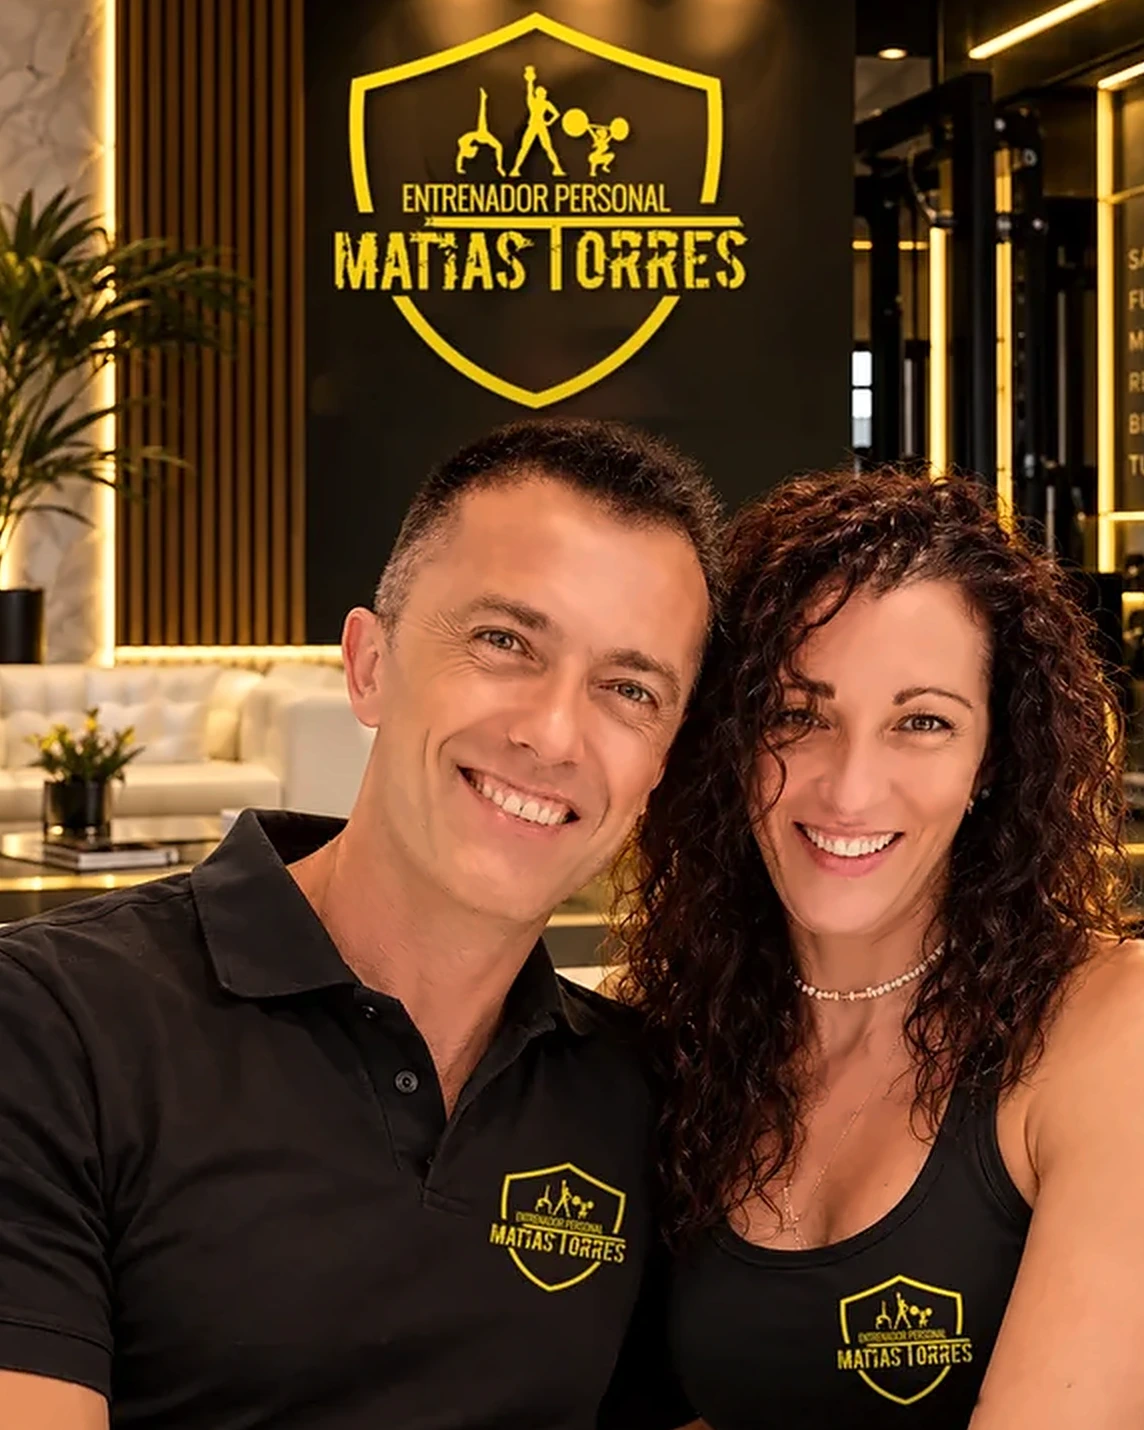
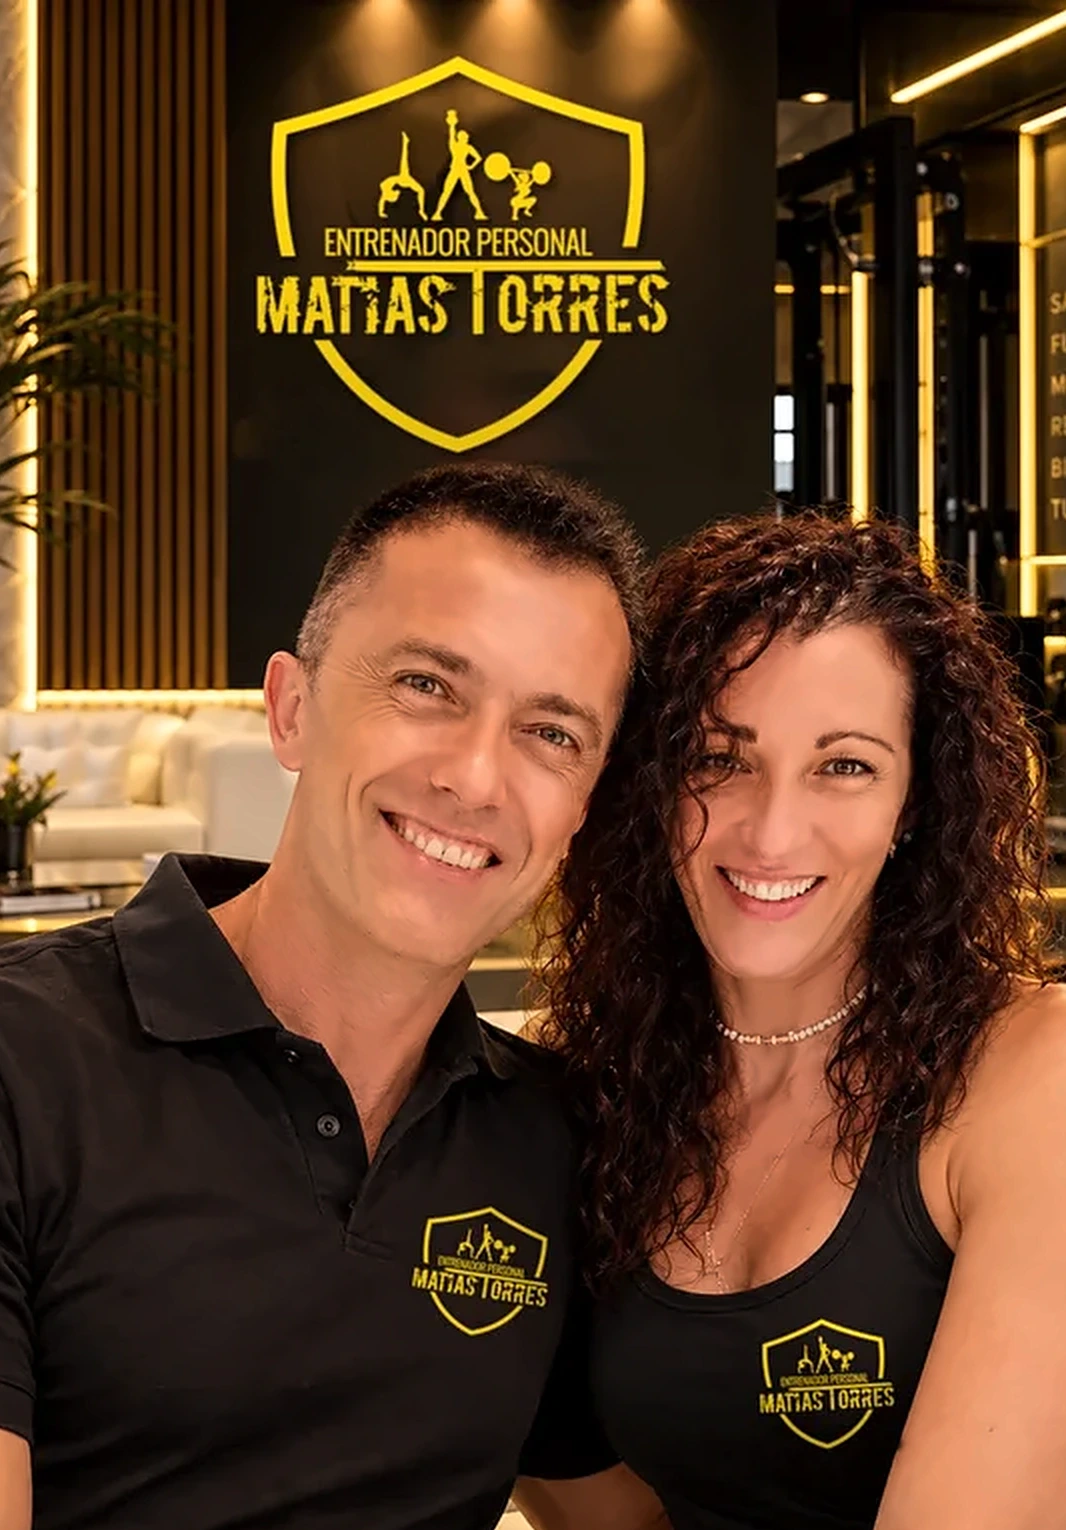
Sobre mí: foto más abierta, con los focos y la maceta cortada por la mitad
Claude-Session: https://claude.ai/code/session_01NkzjF2BzZSqjuTvLD3VfVv

diff --git a/index.html b/index.html
@@ -824,7 +824,7 @@
 
   <section class="dark-sec meet" id="matias"><div class="wrap">
     <figure class="meet-ph">
-      <img src="fotos/matias-silvia.webp?v=3" width="1144" height="1430" style="height:auto;object-position:50% 50%" alt="Matías Torres y Silvia, del equipo del centro, sonriendo en la sala con el polo y la camiseta del escudo" loading="lazy">
+      <img src="fotos/matias-silvia.webp?v=4" width="1066" height="1530" style="height:auto;aspect-ratio:1066/1530;object-position:50% 50%" alt="Matías Torres y Silvia, del equipo del centro, sonriendo en la sala con el polo y la camiseta del escudo" loading="lazy">
       <figcaption><b>Matías Torres</b><span>Entrenador personal · Orihuela</span></figcaption>
     </figure>
     <div>
